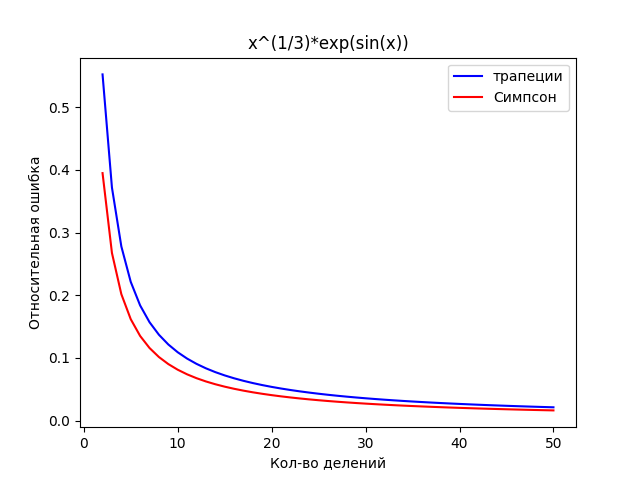
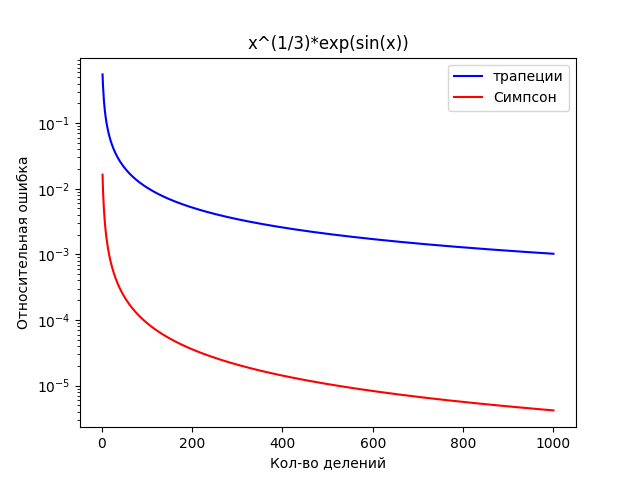
commit task3

diff --git a/task3.py b/task3.py
@@ -9,7 +9,7 @@ import math
 import matplotlib.pyplot as plt
 from scipy.integrate import quad
 a1, b1, a2, b2 = 1., -1., 0., 1.
-N = 50
+N = 1000
 
 
 def f1(x) -> float:
@@ -79,25 +79,38 @@ def simpson_method(a, b, N, f, I) -> list:
 
     errarr = []
     for n in range(2, N+1, 1):
-        xarr = np.linspace(a, b, 2 * n)
-        h = (b - a) / (2 * n)  #xarr[1] - xarr[0]
-        yarr = [f(x) for x in xarr]
-        S = 0
-        for i in range(1, len(yarr)-1, 1):
-            if i % 2 == 0:
-                    factor = 2.
-            else:
-                    factor = 4.
-            S = S + factor * yarr[i]
-        #S = (S - yarr[0] - 3. * yarr[2 ** n - 1]) * h/3.
-        S = (S + yarr[0] + yarr[len(yarr) - 1])*h/3.
-        errarr.append(np.abs((I-S)/I))
-        print(f' Кол-во разбиений:\t {n} \t\t Значение интеграла:\t{S}')
+        h = (np.float64(b) - np.float64(a)) / np.float64(n)
+
+        s = 0
+        for i in range(1, n+1):
+            left = np.float64(a) + np.float64(i - 1) * h
+            right = np.float64(a) + i * h
+
+            s += (f(left) + f(right) + 4. * f((right + left) / 2.)) * h / 6.
+
+        errarr.append(np.abs(I-s)/I)
+
+
+        # xarr = np.linspace(a, b, 2 * n)
+        # h = (b - a) / (2 * n)  #xarr[1] - xarr[0]
+        # yarr = [f(x) for x in xarr]
+        # S = 0
+        # for i in range(1, len(yarr)-1, 1):
+        #     if i % 2 == 0:
+        #             factor = 2.
+        #     else:
+        #             factor = 4.
+        #     S = S + factor * yarr[i]
+        # #S = (S - yarr[0] - 3. * yarr[2 ** n - 1]) * h/3.
+        # S = (S + yarr[0] + yarr[len(yarr) - 1])*h/3.
+        # errarr.append(np.abs((I-S)/I))
+        print(f' Кол-во разбиений:\t {n} \t\t Значение интеграла:\t{s}')
 
     return errarr
 
 
 def run():
+    # plt.yscale('log')
     Integral1 = quad(func=f1, a=a1, b=b1)[0]
     Integral2 = quad(func=f2, a=a2, b=b2)[0]
     print(Integral1)
@@ -129,6 +142,7 @@ def run():
     y2arr = simpson_method(a2, b2, N, f2, Integral2)
     # y2arr = simpson(a2, b2, N, f2, Integral2)
     plt.close()
+    plt.yscale('log')
     #plt.ylim(0, 0.1)
     plt.plot(x, y1arr, label='трапеции', color=colors[0])
     plt.plot(x, y2arr, label='Симпсон', color=colors[1])

diff --git a/main.py b/main.py
@@ -9,5 +9,5 @@ import task7
 
 if __name__ == '__main__':
 
-    task7.run()
+    task3.run()
 
